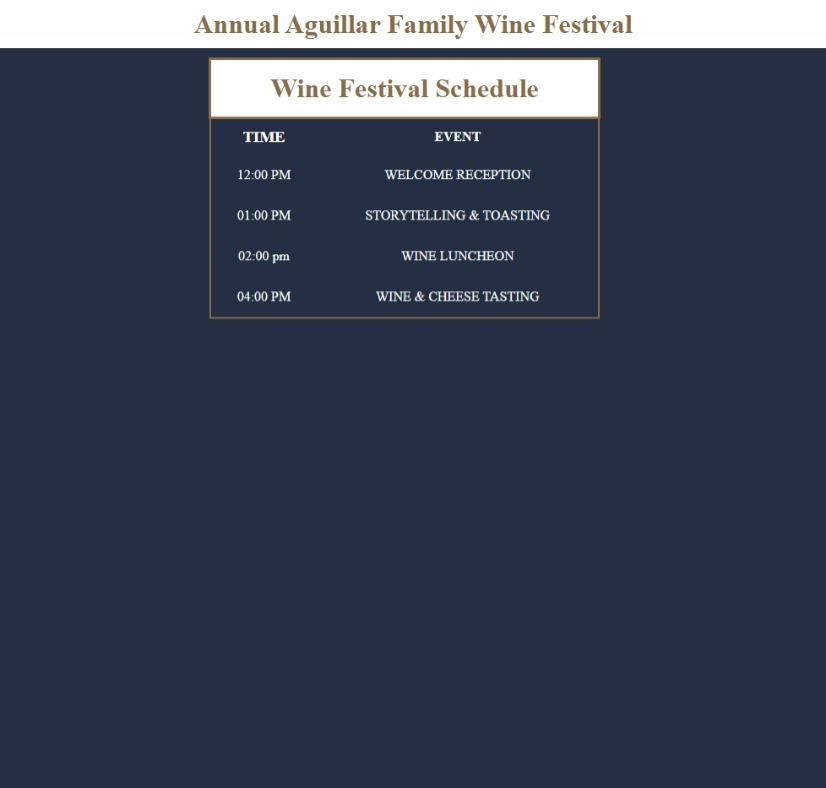
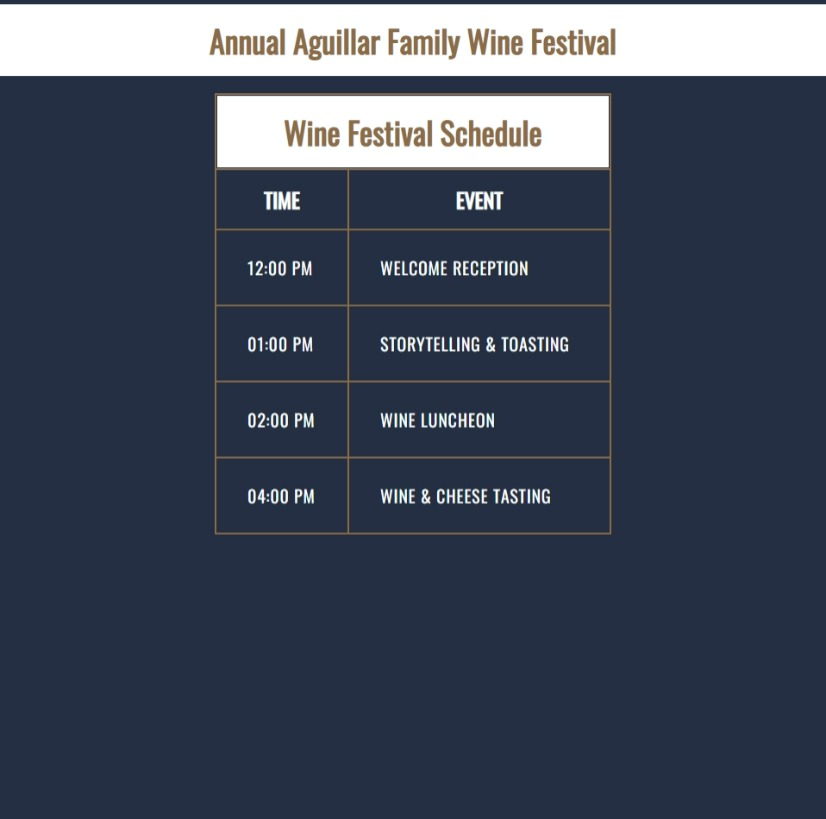
table modified

Changed region(s): [[0.0, 0.0, 1.0, 0.6701]]

diff --git a/index.html b/index.html
@@ -2,13 +2,14 @@
 <html>
 <head>
     <title>Wine Festival Schedule</title>
+    <link rel="preconnect" href="https://fonts.googleapis.com"><link rel="preconnect" href="https://fonts.gstatic.com" crossorigin><link href="https://fonts.googleapis.com/css2?family=Oswald&display=swap" rel="stylesheet">
     <link rel="stylesheet" href="styles/style.css">
 </head>
 
 <!-- Wine Festival Schedule -->
 <body>
 </body>
-    <header class="cont">
+    <header>
         <h1>Annual Aguillar Family Wine Festival</h1>
     </header>
 
@@ -16,31 +17,53 @@
         <table>
             <thead>
                 <tr>
-                    <th colspan="2" class="title"><h1>Wine Festival Schedule</h1></th>
+                    <th colspan="2">
+                        <h1>Wine Festival Schedule</h1>
+                    </th>    
                 </tr>
             </thead>
             <tbody>
                 <!-- Headers for each column -->
                 <tr>
-                    <th><h3>TIME</h3></th>
-                    <th>EVENT</th>
+                    <th>
+                        <h2>Time</h2>
+                    </th>
+                    <th>
+                        <h2>Event</h2>
+                    </th>
                 </tr>
                 <tr>
-                    <!-- -->
-                    <td>12:00 PM</td>
-                    <td>WELCOME RECEPTION</td>
+                    <!-- row 3 and on -->
+                    <td class="left">
+                        <h3>12:00 PM</h3>
+                    </td>
+                    <td>
+                        <h3>Welcome Reception</h3>
+                    </td>
                 </tr>
                 <tr>
-                    <td>01:00 PM</td>
-                    <td>STORYTELLING & TOASTING</td>
+                    <td class="left">
+                        <h3>01:00 PM</h3>
+                    </td>
+                    <td>
+                        <h3>Storytelling & Toasting</h3>
+                    </td>
                 </tr>
                 <tr>
-                    <td>02:00 pm</td>
-                    <td>WINE LUNCHEON</td>
+                    <td class="left">
+                        <h3>02:00 pm</h3>
+                    </td>
+                    <td>
+                        <h3>Wine Luncheon</h3>
+                    </td>
                 </tr>
                 <tr>
-                    <td>04:00 PM</td>
-                    <td>WINE & CHEESE TASTING</td>
+                    <td class="left">
+                        <h3>04:00 PM</h3>
+                    </td>
+                    <td>
+                        <h3>Wine & Cheese Tasting</h3>
+                    </td>
                 </tr>
             </tbody>
         </table>

diff --git a/styles/style.css b/styles/style.css
@@ -1,55 +1,71 @@
 * {
     margin: 0;
+    font-family: "Oswald", sans-serif;
 }
-
-
-.cont {
-    display: inline-block;
-    padding: 10px;
-    text-align: center;
-    width: 100%;
-    background-color: white;
-    color: #8c6b48;
-}
-
-
-.title {
-    padding: 15px 70px;
-    text-align: center;
-    background-color: white;
-    color: #8c6b48;
-    border: 3px solid #8c6b48;
-}
-
 
 body {
-    background-color: #242f44
+    background-color: #242f44;
+    color: white;
+}
+
+header {
+    margin-top: 5px;
+    text-align: center;
+}
+
+h1 {
+    font-size: 36px;
+    padding: 15px;
+    color: #8c6b48;
+    background-color: white;
 }
 
 .container {
-    display: flex;
-    justify-content: center;
+    max-width: 940px;
+    margin: 0 auto;
+    height: 800px;
 }
 
-
 table {
-    table-layout: fixed; 
-    height: 100%;
-    border-collapse: collapse;
     text-align: center;
-    color: white;
-    margin: 11px;
+    margin: 20px auto;
+    border-collapse: collapse;
+}
+
+h2 {
+    font-size: 24px;
+    padding: 15px;
+    text-transform: uppercase;
+}
+
+h3 {
+    font-size: 20px;
+    padding: 15px;
+    text-transform: uppercase;
+    text-align: left;
+    margin-left: 20px;
+    font-weight: 500;
+    line-height: 2.7;
+    letter-spacing: 0.8px;
+}
+
+th {
     border: 2px solid #8c6b48;
 }
 
-
-th {
-    padding: 10px;
-}
-
 td {
-    padding: 15px;
+    border: 2px solid #8c6b48;
+    width: 300px;
 }
+
+.left {
+    width: 150px;
+}
+
+
+/* #242f44 */
+/* #8c6b48; */
+/* 'Oswald', sans-serif */
 
 
 /* styling for footer section */
